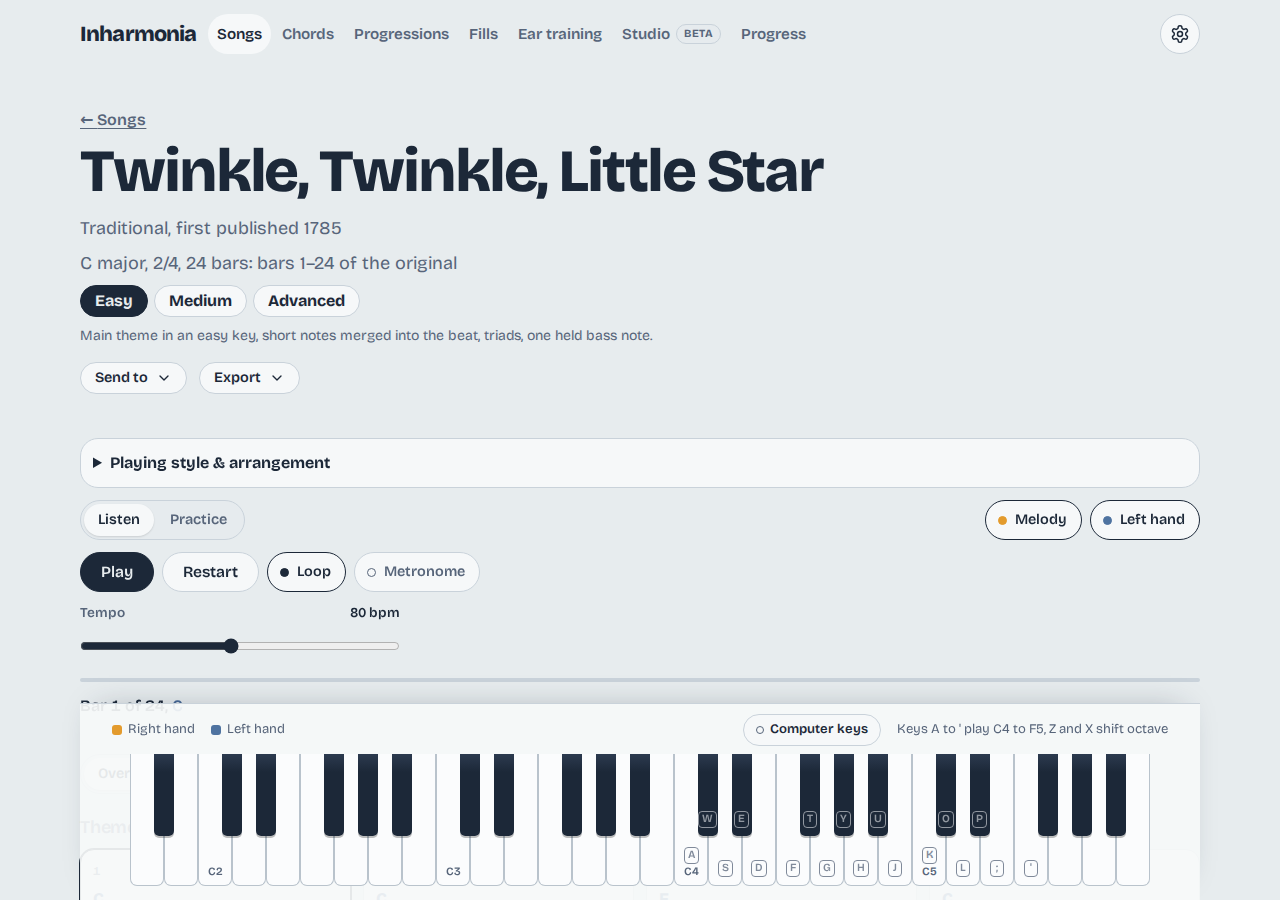
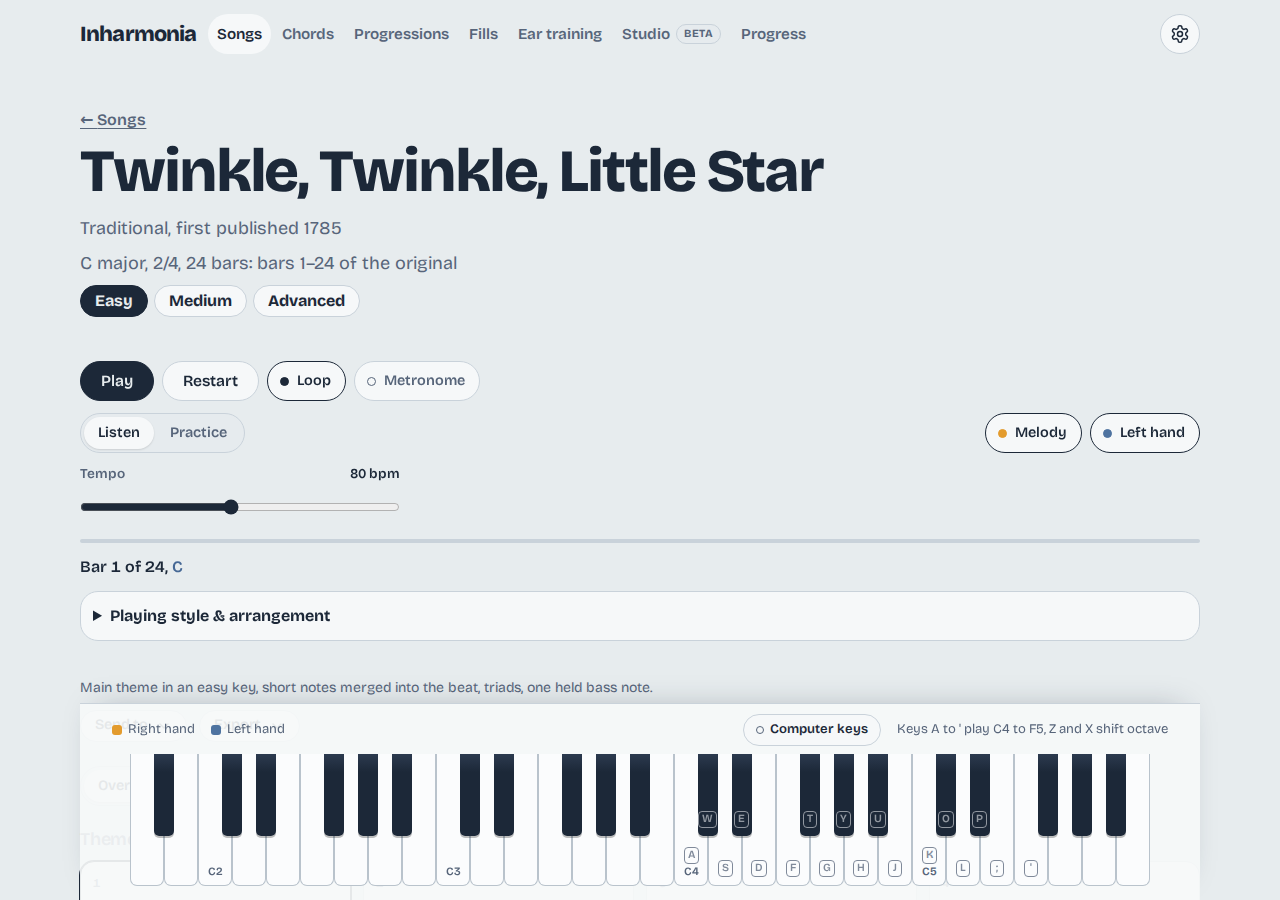
docs(screenshots): Play first in the player, and the longer song previews
The release set is shot again on the new layout: the song page's first
screen has Play clear of the keyboard dock at 360, Home's Songs room
and the song cards draw the longer previews. player-order/ puts a song,
a fill and a progression side by side before and after the player's new
order, at 1280 and 360, and the README gives where Play ends against
the dock.

diff --git a/docs/screenshots/release-p7/README.md b/docs/screenshots/release-p7/README.md
@@ -5,17 +5,31 @@ the glue commits on top. Each page in the light and dark themes, at 1280×900 (d
 360×780 (a phone: touch, `pointer: coarse`, one device pixel per CSS pixel). A fresh browser with
 nothing saved. Whole pages are cut at 1400px (desktop) and 2000px (phone).
 
-| Page                                             | Shows                                                                                                                                | Files                                        |
-| ------------------------------------------------ | ------------------------------------------------------------------------------------------------------------------------------------ | -------------------------------------------- |
-| Home                                             | The welcome, and the rooms, each drawn from what it holds. The Songs room draws Twinkle's opening from the built-in index.           | `home-{light,dark}-{1280,360}.png`           |
-| `/songs`                                         | Your songs, Make your own and the Catalogue. Every song card opens with its first bars on a staff, across the card's top on a phone. | `songs-{light,dark}-{1280,360}.png`          |
-| A song page, `/songs/twinkle-twinkle-easy`       | The first screen. At 1280 Play is clear of the keyboard dock. At 360 Play is still behind it (see below).                            | `song-{light,dark}-{1280,360}.png`           |
-| A catalogue deep link, `/songs/minuet-in-g-easy` | A song in the catalogue but not on this device, with Download. The first screen.                                                     | `catalogue-link-{light,dark}-{1280,360}.png` |
-| `/compose`                                       | The form for composers. It isn't linked from the app.                                                                                | `compose-{light,dark}-{1280,360}.png`        |
-| `/fills`                                         | The fills in their room's colour, each card drawing its run.                                                                         | `fills-{light,dark}-{1280,360}.png`          |
+| Page                                             | Shows                                                                                                                                                                    | Files                                        |
+| ------------------------------------------------ | ------------------------------------------------------------------------------------------------------------------------------------------------------------------------ | -------------------------------------------- |
+| Home                                             | The welcome, and the rooms, each drawn from what it holds. The Songs room draws Twinkle's opening from the built-in index: three bars of 2/4.                            | `home-{light,dark}-{1280,360}.png`           |
+| `/songs`                                         | Your songs, Make your own and the Catalogue. Every song card opens with its first bars on a staff (at least two bars and six beats), across the card's top on a phone.   | `songs-{light,dark}-{1280,360}.png`          |
+| A song page, `/songs/twinkle-twinkle-easy`       | The first screen: Play first in the player, clear of the keyboard dock at both widths. The version's note and Send to / Export are under the player, out of this screen. | `song-{light,dark}-{1280,360}.png`           |
+| A catalogue deep link, `/songs/minuet-in-g-easy` | A song in the catalogue but not on this device, with Download. The first screen.                                                                                         | `catalogue-link-{light,dark}-{1280,360}.png` |
+| `/compose`                                       | The form for composers. It isn't linked from the app.                                                                                                                    | `compose-{light,dark}-{1280,360}.png`        |
+| `/fills`                                         | The fills in their room's colour, each card drawing its run.                                                                                                             | `fills-{light,dark}-{1280,360}.png`          |
 
-At 360×780, Play on a song page sits behind the keyboard dock. That happens on main too. The
-dock is 219px tall there, and on the welcome song Play ends at 810px while the dock starts at
-561px. `e2e/layout.spec.ts` checks Play against the dock's top edge on a song, the welcome song,
-a fill, a progression and a chord chart. Those tests are marked `test.fail` until the layout is
-fixed.
+## Play before the rest of the player
+
+`player-order/`: the first screen of a song (Twinkle, Easy), a fill (step-up) and a progression
+(ii–V–I), light theme, before and after the player's new order, at 1280 and 360. Before, Play sat
+behind the keyboard dock at 360. After, Play comes first in the player, and the settings that
+shape the lesson come last. On a song, the version's note and Send to / Export move under the
+player. On a fill, Play goes above the chord strip.
+
+| Page        | Play ends at 360, before | After | The dock starts at |
+| ----------- | ------------------------ | ----- | ------------------ |
+| Song        | 810px                    | 526px | 561px              |
+| Fill        | 753px                    | 518px | 561px              |
+| Progression | 682px                    | 524px | 561px              |
+
+Files: `player-{song,fill,progression}-{before,after}-light-{1280,360}.png`.
+
+A chord chart's header is taller (its notes, the progressions found, and four actions on two
+lines), so Play still ends at 614px there. `e2e/layout.spec.ts` keeps that page's dock check
+marked `test.fail` until the chart's layout is decided.
